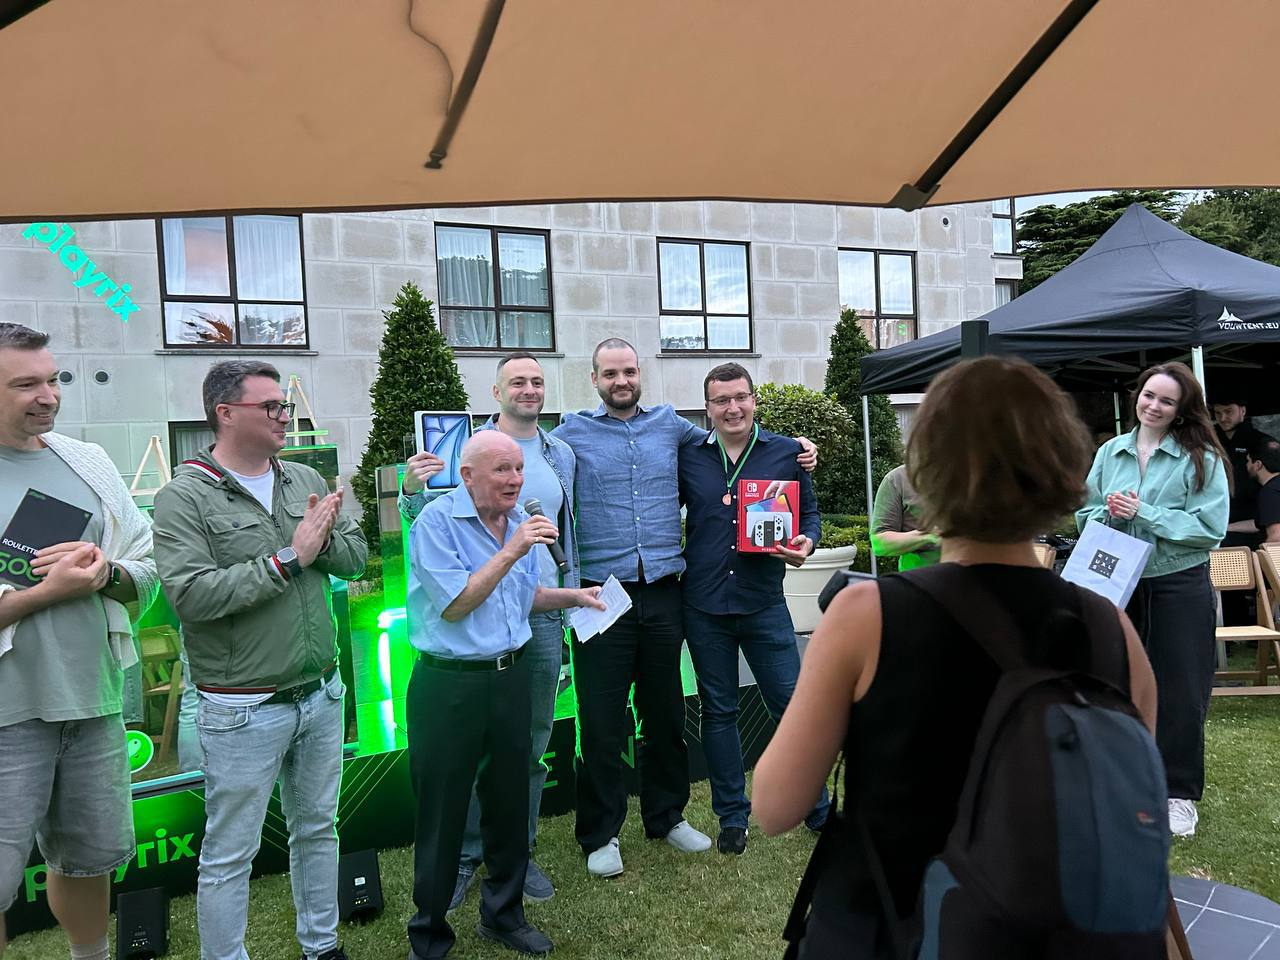
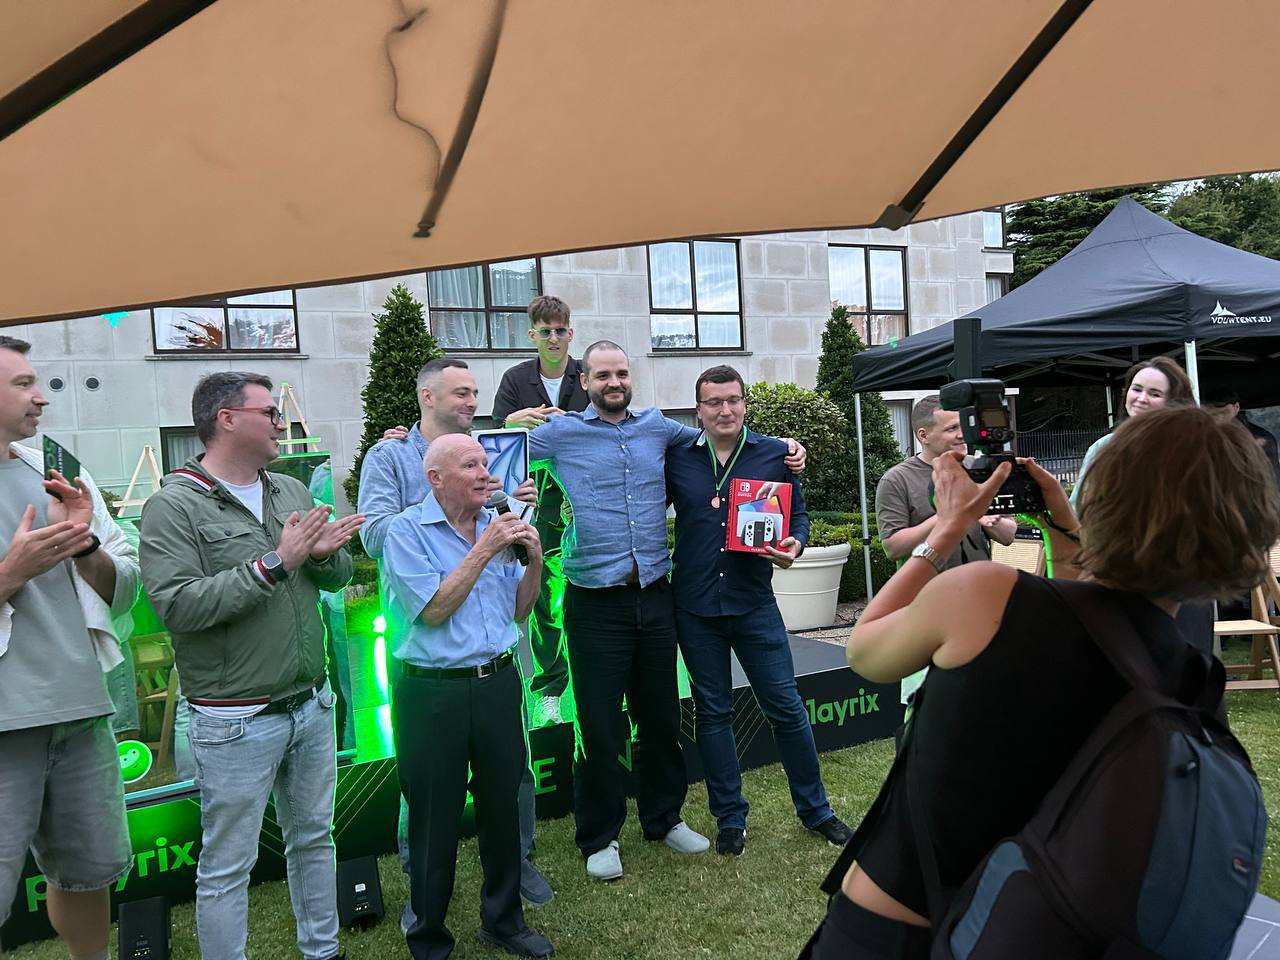
feat: add award ceremony photo to Playrix Top 100 credentials

diff --git a/app/page.tsx b/app/page.tsx
@@ -145,7 +145,7 @@ export default function Home() {
               {/* Founders proof */}
               <div className="flex items-center gap-3">
                 <div className="flex gap-2">
-                  <div className="photo-frame w-[72px] aspect-[4/3]">
+                  <div className="photo-frame w-[68px] aspect-[4/3]">
                     <Image
                       src="/playrix-poker-1.jpg"
                       alt="С братьями Бухман — финальный стол"
@@ -154,10 +154,19 @@ export default function Home() {
                       className="object-cover w-full h-full"
                     />
                   </div>
-                  <div className="photo-frame w-[72px] aspect-[4/3]">
+                  <div className="photo-frame w-[68px] aspect-[4/3]">
                     <Image
                       src="/playrix-poker-2.jpg"
                       alt="С Игорем и Дмитрием Бухман"
+                      width={240}
+                      height={180}
+                      className="object-cover w-full h-full"
+                    />
+                  </div>
+                  <div className="photo-frame w-[68px] aspect-[4/3]">
+                    <Image
+                      src="/playrix-poker-3.jpg"
+                      alt="Награждение Playrix Top 100"
                       width={240}
                       height={180}
                       className="object-cover w-full h-full"
